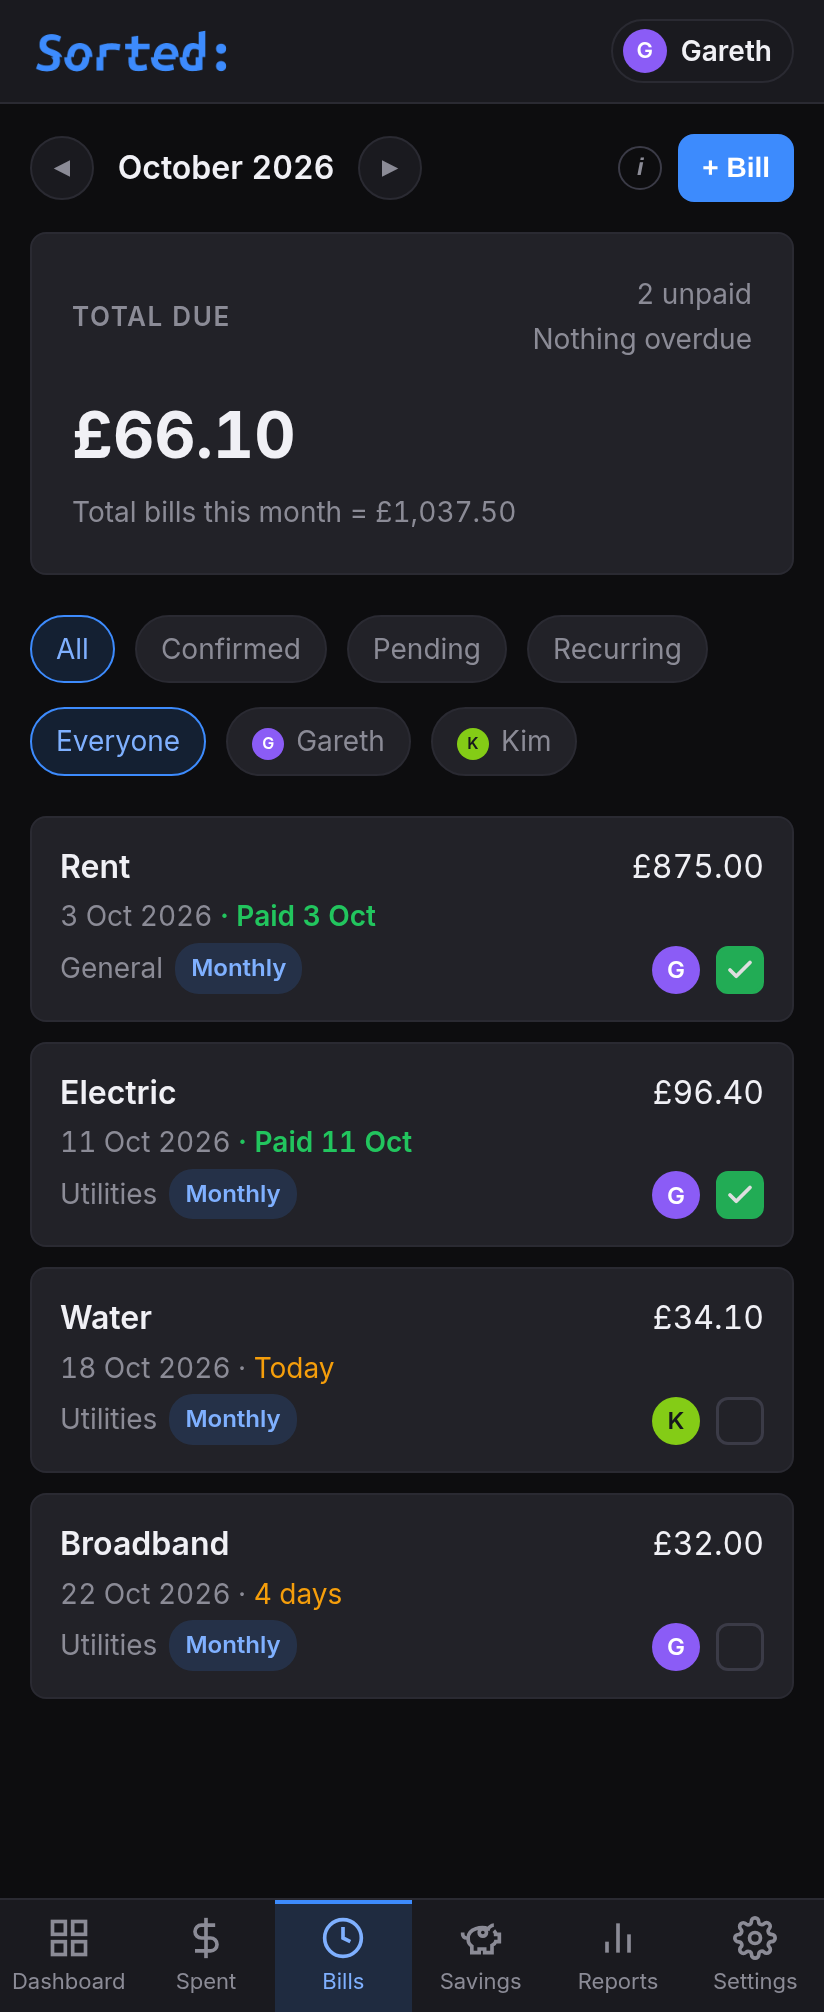
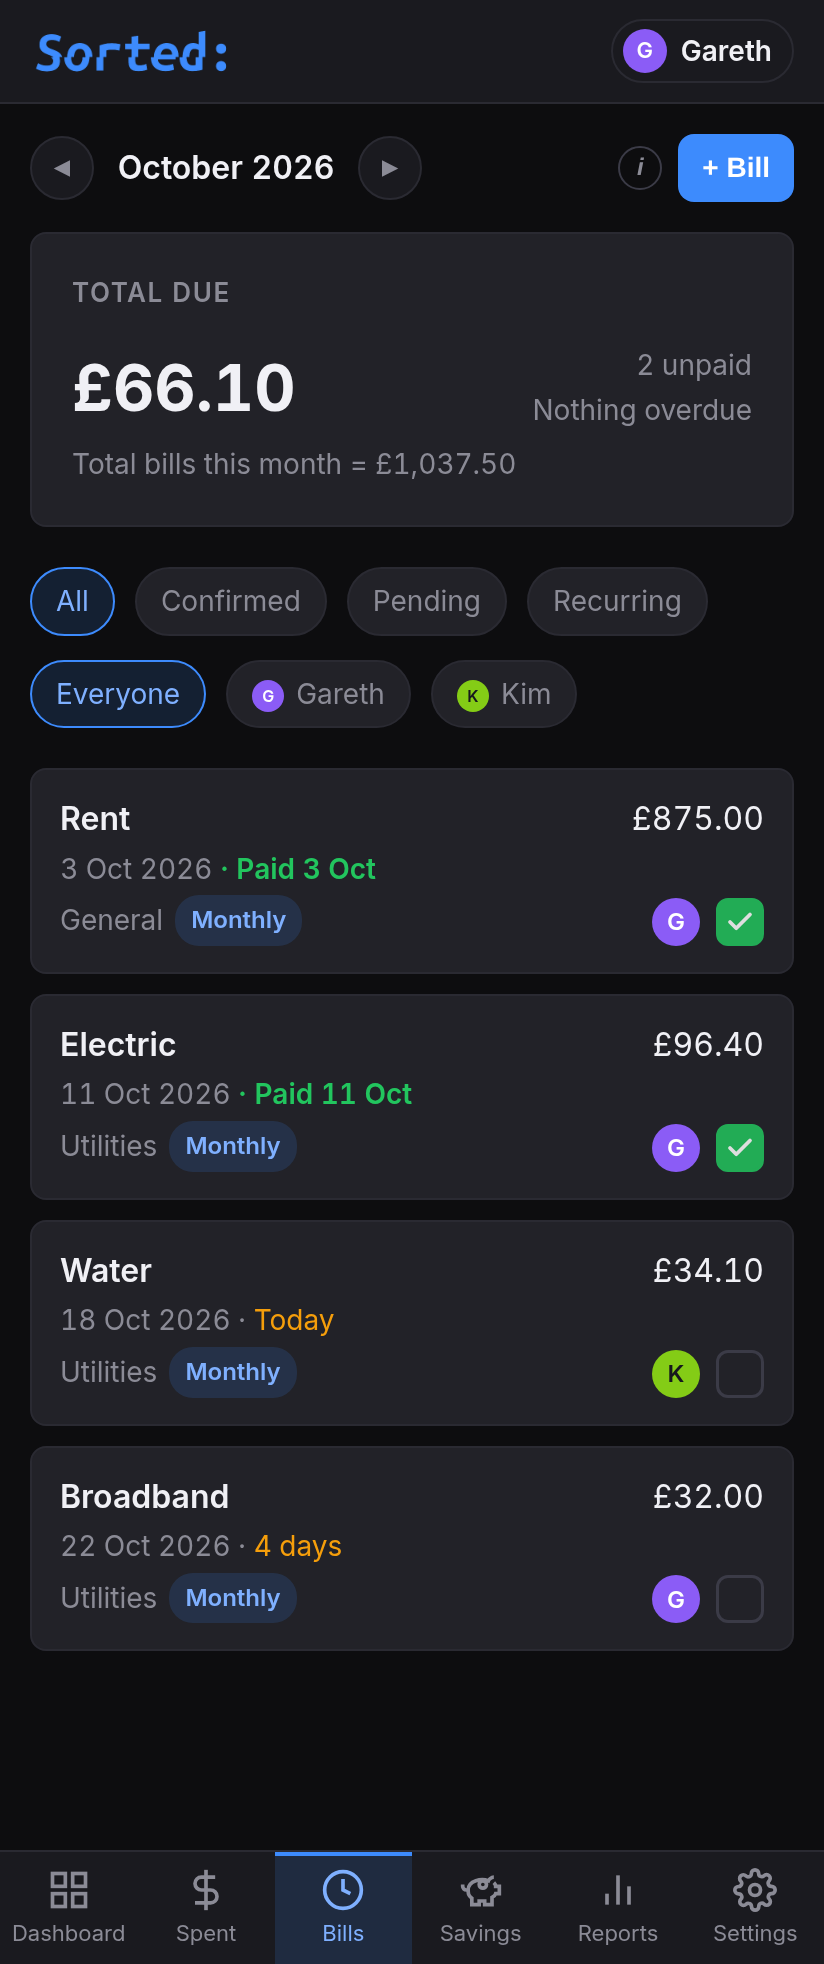
v2.99.0: the Bills card is the same height as the Spent one again
The two facts stayed on two lines, as asked. What was wrong was where the two
lines went: I put them in the card's header, which made that header 43px instead
of 19px and the card 171px instead of the Spent card's 148 — so everything below
moved when you went between the two pages.

The pair moves into the amount's row. That row is 46px tall and the pair is 43px,
so the second line costs nothing: it fits in a row that was already there. The
card is 148px on both pages now, with the same rhythm — title row, amount row, one
line under the amount — and the count no longer sits above the card's own "TOTAL
DUE": it starts 34px below it, beside the amount.

Measured rather than eyeballed, at 412px: Spent 148, Bills 148, title row 19px,
amount row 46px, and the line under the amount at the same y on both pages.

The Spent card carried a comment from an earlier session about keeping the two
cards' second line in the same place. The Bills sub line still is, so the note now
says what is actually true and names the exception.

One limit, known and recorded: the pair sits beside the amount, so an amount wider
than about £9,999.99 leaves "Nothing due this month" no room and it wraps to a
third line, which puts that month's card ~16px taller again. Avoiding it means a
smaller amount or shorter copy, neither of which was in scope. Up to five figures
the card is stable.

Also here: screenshots.js seeds explicit ids, so the shots are byte-identical run
[…]

diff --git a/tools/harness/screenshots.js b/tools/harness/screenshots.js
@@ -21,14 +21,30 @@ const sleep = (ms) => new Promise((r) => setTimeout(r, ms));
 const SEED = `
   const d = new Date();
   const y = d.getFullYear(), m = d.getMonth();
-  const gareth = await addItem('people', { name: 'Gareth', colour: PERSON_COLOURS[0] });
-  const kim = await addItem('people', { name: 'Kim', colour: PERSON_COLOURS[3] });
+  // Every seeded row brings its own id. db.js mints a random UUID otherwise,
+  // and a list the app does not sort comes out in key order — so the goals and
+  // the accounts landed in a different order on every run. That put a
+  // different picture in the README each regeneration, and worse, it meant a
+  // screenshot diff could not tell a real change from a shuffle: regenerating
+  // to check a one-card edit reported four changed images. Zero-padded strings
+  // sort in the order they are written.
+  //
+  // Strings, not numbers, deliberately. db.js normaliseId turns a numeric id
+  // into a Number, and the current person's id takes a trip through
+  // localStorage (setCurrentPersonId) and comes back a string — so a numeric id
+  // never matches the id in peopleCache and the person chip reads "Anyone".
+  // That caught this change the first time: every shot came out with a
+  // different top-right corner.
+  let nextId = 0;
+  const newSeedId = () => 'seed-' + String(++nextId).padStart(3, '0');
+  const gareth = await addItem('people', { id: newSeedId(), name: 'Gareth', colour: PERSON_COLOURS[0] });
+  const kim = await addItem('people', { id: newSeedId(), name: 'Kim', colour: PERSON_COLOURS[3] });
   // Opening figures chosen so the household stays comfortably solvent after
   // the bills below have been paid and the goals filled — a README showing a
   // negative total tells the wrong story about the app.
-  const current = await addItem('accounts', { name: 'Current account', type: 'bank', opening: 5350 });
-  const cash = await addItem('accounts', { name: 'Cash', type: 'cash', opening: 120 });
-  await addItem('income', { title: 'Salary', amount: 2140, category: 'salary',
+  const current = await addItem('accounts', { id: newSeedId(), name: 'Current account', type: 'bank', opening: 5350 });
+  const cash = await addItem('accounts', { id: newSeedId(), name: 'Cash', type: 'cash', opening: 120 });
+  await addItem('income', { id: newSeedId(), title: 'Salary', amount: 2140, category: 'salary',
     frequency: 'monthly', date: localISO(new Date(y, m, 1)), accountId: current, personId: gareth });
 
   // A month with bills already paid, and two still to come.
@@ -39,7 +55,7 @@ const SEED = `
     ['Broadband', 32, 22, false, gareth]
   ];
   for (const [title, amount, day, paid, person] of bills) {
-    const made = await addItem('due', { title, amount,
+    const made = await addItem('due', { id: newSeedId(), title, amount,
       dueDate: localISO(new Date(y, m, day)), frequency: 'monthly',
       category: title === 'Rent' ? 'General' : 'Utilities', accountId: current,
       paid: false, personId: person });
@@ -56,18 +72,18 @@ const SEED = `
     ['Cinema', 22.00, 'Entertainment', current, kim, true, 12]
   ];
   for (const [title, amount, category, accountId, person, confirmed, day] of spends) {
-    await addItem('spend', { title, amount, category, accountId, personId: person,
+    await addItem('spend', { id: newSeedId(), title, amount, category, accountId, personId: person,
       date: localISO(new Date(y, m, day)), confirmed });
   }
 
-  await addItem('savings', { title: 'Japan 2027', category: 'Holiday',
+  await addItem('savings', { id: newSeedId(), title: 'Japan 2027', category: 'Holiday',
     target: 4200, current: 850, accountId: current });
-  await addItem('savings', { title: 'Living room', category: 'Home',
+  await addItem('savings', { id: newSeedId(), title: 'Living room', category: 'Home',
     target: 1400, current: 1400, accountId: current });
-  await addItem('savings', { title: 'Christmas', category: 'Christmas',
+  await addItem('savings', { id: newSeedId(), title: 'Christmas', category: 'Christmas',
     target: 600, current: 240, accountId: cash });
 
-  await addItem('transfers', { amount: 250, fromId: current, toId: cash,
+  await addItem('transfers', { id: newSeedId(), amount: 250, fromId: current, toId: cash,
     date: localISO(new Date(y, m, 2)) });
   await loadAccounts();
   setCurrentPersonId(gareth);

diff --git a/docs/static/js/app.js b/docs/static/js/app.js
@@ -2,7 +2,7 @@
 
 // Single source for the version shown in the UI. Bump this together with
 // package.json and android/app/build.gradle.
-const APP_VERSION = '2.98.0';
+const APP_VERSION = '2.99.0';
 document.querySelectorAll('.app-version').forEach((el) => { el.textContent = 'v' + APP_VERSION; });
 
 let currentPage = 'dashboard';
@@ -1953,10 +1953,17 @@ async function renderSpend(container) {
         <span class="stat-card-title">Monthly total</span>
       </div>
       <div class="stat-card-value">${currency(monthTotal)}</div>
-      <!-- Under the amount, not beside the title. Bills puts "Nothing overdue"
-           on this line, and having the two cards of the same app disagree about
-           where their second line goes is what makes the top of the screen jump
-           as you move between tabs. Same shape, same place. -->
+      <!-- Under the amount, not beside the title. Both cards put their one line
+           of explanation here — "Year: …" and "Total bills this month = …" — and
+           having the two cards of the same app disagree about where that line
+           goes is what makes the top of the screen jump as you move between
+           tabs. Same shape, same place.
+
+           The Bills card's count and status are the exception, and they sit
+           beside the amount instead (see .stat-card-row): two lines cannot go
+           under the amount without making that card taller than this one, and
+           the amount's own row is tall enough to hold both without costing
+           anything. Same height, one aside different. -->
       <div class="stat-card-sub">Year: ${currency(yearTotal)}</div>
     </div>
     
@@ -2228,12 +2235,14 @@ async function renderDue(container) {
     <div class="stat-card" style="margin-bottom: 20px; ${overdue.length > 0 ? 'border-color: var(--danger);' : ''}">
       <div class="stat-card-header">
         <span class="stat-card-title">Total due</span>
+      </div>
+      <div class="stat-card-row">
+        <div class="stat-card-value" style="color: ${overdue.length > 0 ? 'var(--danger)' : 'var(--text-primary)'}">${currency(total)}</div>
         <span class="stat-card-sub stat-card-sub--stack">
           <span>${outstanding.length} unpaid</span>
           <span>${overdueStatus(overdue, upcoming)}</span>
         </span>
       </div>
-      <div class="stat-card-value" style="color: ${overdue.length > 0 ? 'var(--danger)' : 'var(--text-primary)'}">${currency(total)}</div>
       <div class="stat-card-sub">Total bills this month = ${currency(billsThisMonthTotal)}</div>
       ${overdueElsewhere.length > 0
         ? `<div class="stat-card-sub">Includes ${overdueElsewhere.length} overdue from an earlier month</div>` : ''}

diff --git a/docs/static/css/main.css b/docs/static/css/main.css
@@ -335,14 +335,34 @@ body {
   margin-bottom: 5px;
 }
 
+/* The value and a two-line aside share one row — the Bills card's count and
+   status. A two-line block in the *header* made that card 24px taller than the
+   Spent card's, and the two sit in the same place on their pages, so moving
+   between them moved everything below. The value's row is 46px tall and the
+   pair is 43px, so the second line costs nothing: it fits in a row that was
+   already there. */
+.stat-card-row {
+  display: flex;
+  align-items: center;
+  justify-content: space-between;
+  gap: 12px;
+  margin-bottom: 5px;
+}
+
+/* The margin belongs to the row now. Kept on the value inside it, it would
+   offset the value against the aside beside it, by half of itself. */
+.stat-card-row .stat-card-value {
+  margin-bottom: 0;
+}
+
 .stat-card-sub {
   font-size: var(--fs-base);
   color: var(--text-secondary);
 }
 
-/* Two facts, one per line. Both cards that pair a count with a status used to
-   run them together with a middot — "0 unpaid · Nothing due this month" — which
-   is 31 characters and has no room beside the card's own label on a 412px
+/* Two facts, one per line. Both Bills cards — this one and the Dashboard's —
+   used to run the pair together with a middot: "0 unpaid · Nothing due this
+   month" is 31 characters and has no room beside a card's own label on a 412px
    phone, so it broke wherever it landed rather than where the copy breaks. The
    stack puts the break on the boundary the sentence already has. */
 .stat-card-sub--stack {

diff --git a/tools/harness/README.md b/tools/harness/README.md
@@ -15,7 +15,14 @@ rather than the current directory, so moving it again cannot quietly break the s
 - `driver.js` — starts and stops chromedriver. Everything else goes through it.
 - `harness.js` — session helpers, for scripts that need a driver outside the suite.
 - `leak-check.js` — proves all three teardown paths leave nothing running.
-- `screenshots.js` — regenerates the six README shots into `screenshots/`.
+- `screenshots.js` — regenerates the six README shots into `screenshots/`. Its seed
+  gives every row its own id, so the output is byte-identical run to run; without
+  that, the lists the app does not sort (goals, accounts) came out in a different
+  order every time, and a screenshot diff could not tell a real change from a
+  shuffle. Two things you should expect in a diff: `settings.png` contains the
+  app's version string, so it changes on every release; and every shot contains
+  the current month and the days counting down to each bill, so they drift as the
+  calendar moves.
 - `test-pdf.js`, `test-people.js` — the PDF export, and the people and split suites.
 - `ocr-bench.js`, `receipts.js` — the receipt-OCR benchmark and its synthetic receipts.
 - `README.md` — this file: the traps, and all of them were paid for.

diff --git a/README.md b/README.md
@@ -96,7 +96,7 @@ Served over HTTPS, Chrome will also offer to install it — there's a web manife
 
 ### Android (APK)
 
-Grab [`sorted-v2-2.98.0-debug.apk`](https://github.com/jaquesbody/sorted/releases/download/v2.98.0/sorted-v2-2.98.0-debug.apk) from the [releases page](https://github.com/jaquesbody/sorted/releases/latest) and sideload it (your phone will ask to allow installs from unknown sources). It's the same app wrapped in a WebView — fully offline, data stored on the phone. The phone build moves the six destinations into a bottom bar; append `?native` to the web URL to preview that layout in a desktop browser.
+Grab [`sorted-v2-2.99.0-debug.apk`](https://github.com/jaquesbody/sorted/releases/download/v2.99.0/sorted-v2-2.99.0-debug.apk) from the [releases page](https://github.com/jaquesbody/sorted/releases/latest) and sideload it (your phone will ask to allow installs from unknown sources). It's the same app wrapped in a WebView — fully offline, data stored on the phone. The phone build moves the six destinations into a bottom bar; append `?native` to the web URL to preview that layout in a desktop browser.
 
 APKs are build artefacts, so they live in releases rather than in this repo — every past build is still on the releases page.
 
